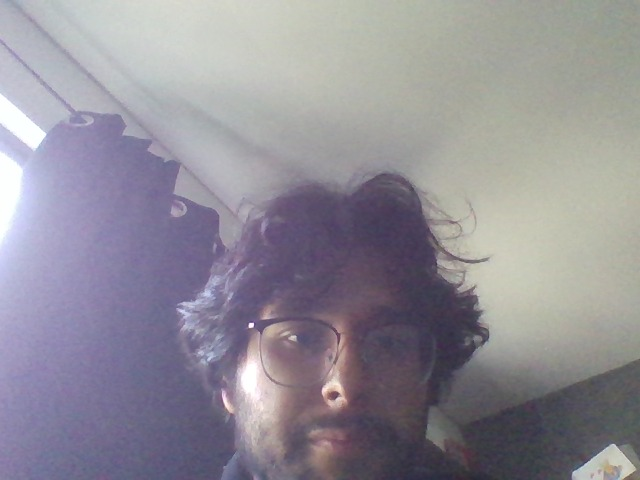
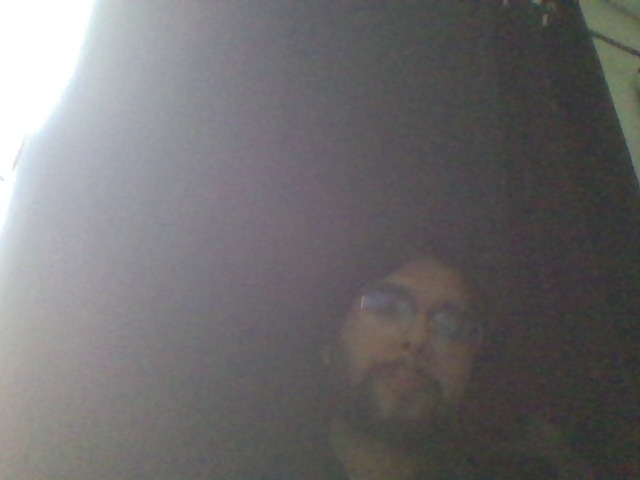
improvements in the UI

diff --git a/app/templates/index.html b/app/templates/index.html
@@ -2,192 +2,238 @@
 <html lang="es">
 <head>
 <meta charset="UTF-8">
-<title>Clasificador Accesible de Billetes</title>
+<title>Detector de Billetes USD</title>
 
 <style>
-    body {
-        font-family: Arial;
-        background: #000;
-        color: #fff;
-        padding: 20px;
-        text-align: center;
-        font-size: 24px;
+    html, body {
+        margin: 0;
+        padding: 0;
+        height: 100%;
+        background: black;
+        overflow: hidden;
+        font-family: Arial, sans-serif;
     }
 
-    video {
-        width: 90%;
-        max-width: 450px;
-        height: auto;
-        border: 4px solid white;
-        border-radius: 10px;
-        margin: 20px auto;
-        display: block;
-    }
-
-    button {
+    /* Cámara en fondo completo */
+    #camera {
+        position: fixed;
+        top: 0;
+        left: 0;
         width: 100%;
-        padding: 28px;
-        font-size: 28px;
-        margin: 18px 0;
-        border-radius: 18px;
-        border: 3px solid white;
-        background: #1a73e8;
+        height: 100%;
+        object-fit: cover;
+        z-index: 1;
+    }
+
+    /* Botón estilo PDF */
+    #mainButton {
+        position: fixed;
+        bottom: 35px;
+        left: 50%;
+        transform: translateX(-50%);
+        width: 70%;
+        max-width: 450px;
+        background: #3866FF;
+        padding: 30px 20px;
+        border-radius: 25px;
+        border: none;
         color: white;
+        text-align: center;
+        z-index: 3;
+        cursor: pointer;
+        box-shadow: 0px 8px 20px rgba(0,0,0,0.4);
+    }
+
+    #mainButtonText {
+        font-size: 32px;
+        font-weight: 900;
+        margin: 0;
+    }
+
+    #subText {
+        font-size: 18px;
+        opacity: 0.9;
+        margin-top: 8px;
+    }
+
+    /* Resultado */
+    #resultBox {
+        position: fixed;
+        bottom: 35px;
+        left: 50%;
+        transform: translateX(-50%);
+        width: 70%;
+        max-width: 450px;
+        background: #3866FF;
+        padding: 40px 20px;
+        border-radius: 25px;
+        display: none;
+        z-index: 4;
+        cursor: pointer;
+        text-align: center;
+        box-shadow: 0px 8px 25px rgba(0,0,0,0.45);
+    }
+
+    #resultText {
+        font-size: 34px;
+        font-weight: 900;
+        margin-bottom: 10px;
+    }
+
+    #totalText {
+        position: fixed;
+        top: 20px;
+        left: 50%;
+        transform: translateX(-50%);
+        font-size: 26px;
         font-weight: bold;
+        color: white;
+        text-shadow: 0 0 5px black;
+        z-index: 5;
     }
 
-    button:focus {
-        outline: 5px solid yellow;
-    }
+    #totalBox {
+    position: fixed;
+    top: 20px;
+    left: 50%;
+    transform: translateX(-50%);
+    background: #3866FF;
+    padding: 20px 30px;
+    border-radius: 25px;
+    color: white;
+    font-size: 28px;
+    font-weight: 900;
+    text-align: center;
+    z-index: 5;
+    box-shadow: 0px 6px 18px rgba(0,0,0,0.45);
+}
 
-    h1, h2, h3 {
-        margin-top: 20px;
-    }
+
 </style>
 </head>
+
 <body>
 
-<h1 aria-live="assertive">Clasificador Accesible de Billetes</h1>
+<video id="camera" autoplay playsinline></video>
 
-<!-- Vista previa cámara -->
-<video id="camera" autoplay playsinline aria-label="Vista previa de cámara"></video>
+<div id="totalBox">$0 USD acumulado</div>
 
-<!-- Botones grandes -->
-<button id="scanBtn" aria-label="Escanear billete">📷 Escanear Billete</button>
-<button id="sumBtn" aria-label="Calcular la suma total">🧮 Terminar de Contar</button>
-<button id="uploadBtn" aria-label="Subir imagen desde el dispositivo">📁 Subir Imagen</button>
+<button id="mainButton">
+    <p id="mainButtonText">Escanear Billete</p>
+    <p id="subText">Click para escanear. Mantén presionado para escuchar el total.</p>
+</button>
 
-<input type="file" id="imageInput" accept="image/*" style="display:none">
-
-<h2 id="result" aria-live="assertive">Esperando instrucciones...</h2>
-
-<h3>Historial:</h3>
-<ul id="history" aria-live="polite"></ul>
-
-<h3>Total: <span id="sumResult" aria-live="assertive">0</span></h3>
-
+<div id="resultBox">
+    <p id="resultText">$0 Dollar USD DETECTADO</p>
+    <p id="subText">Click para continuar</p>
+</div>
 
 <script>
-// --------- Voz ---------
+/* Voz accesible */
 function speak(text) {
     const msg = new SpeechSynthesisUtterance(text);
     msg.lang = "es-ES";
-    speechSynthesis.speak(msg);
-
-    if (navigator.vibrate) navigator.vibrate(100);
+    window.speechSynthesis.speak(msg);
 }
 
-// --------- Guía Inicial ---------
+/* Instrucciones iniciales */
 window.onload = () => {
-    speak("Bienvenido. Esta aplicación es accesible para personas ciegas.");
-    speak("Para comenzar, apunte la cámara hacia un billete y presione el botón Escanear Billete.");
-    speak("También puede presionar la tecla ese para escanear, te para terminar y u para cargar una imagen.");
+    speak("Bienvenido. Toque el botón para escanear un billete. Mantenga presionado el botón para escuchar el total acumulado.");
 };
 
-// --------- Iniciar Cámara ---------
+/* Activar cámara */
 async function startCamera() {
     try {
         const stream = await navigator.mediaDevices.getUserMedia({ video: true });
-        document.getElementById("camera").srcObject = stream;
-        speak("Cámara activada. Puedes escanear un billete cuando quieras.");
-    } catch (err) {
+        camera.srcObject = stream;
+    } catch {
         speak("No se pudo activar la cámara.");
     }
 }
 startCamera();
 
-// --------- Historial ---------
-let historyData = [];
-function renderHistory() {
-    const ul = document.getElementById("history");
-    ul.innerHTML = "";
+/* Variables */
+let isLongPress = false;
+let longPressTimer;
+let total = 0;
 
-    historyData.forEach((item, i) => {
-        let li = document.createElement("li");
-        li.innerText = `Registro ${i + 1}: ${item.class} dólares, confianza del ${Math.round(item.confidence * 100)} por ciento.`;
-        ul.appendChild(li);
-    });
-}
+/* Escanear un billete */
+async function scanBill() {
+    speak("Escaneando, espere un momento.");
 
-// --------- Escanear Billete ---------
-async function scanFromCamera() {
-    speak("Escaneando. Un momento.");
-
-    let video = document.getElementById("camera");
-    let canvas = document.createElement("canvas");
-
+    const video = document.getElementById("camera");
+    const canvas = document.createElement("canvas");
     canvas.width = video.videoWidth;
     canvas.height = video.videoHeight;
     canvas.getContext("2d").drawImage(video, 0, 0);
 
-    let blob = await new Promise(resolve => canvas.toBlob(resolve, "image/jpeg"));
+    const blob = await new Promise(resolve => canvas.toBlob(resolve, "image/jpeg"));
     const formData = new FormData();
     formData.append("image", blob);
 
     const res = await fetch("/predict", { method: "POST", body: formData });
     const data = await res.json();
 
-    document.getElementById("result").innerText =
-        `Detectado: ${data.class} con ${(data.confidence * 100).toFixed(0)}%`;
-
-    speak(`Billete detectado. Es un billete de ${data.class} dólares, con una confianza del ${(data.confidence * 100).toFixed(0)} por ciento.`);
-
-    historyData.push(data); 
-    renderHistory();
+    showResult(data.class, data.confidence);
 }
 
-document.getElementById("scanBtn").onclick = scanFromCamera;
+/* Mostrar resultado */
+function showResult(amount, confidence) {
+    const confPercent = Math.round(confidence * 100);
 
-// --------- Subir Imagen ---------
-document.getElementById("uploadBtn").onclick = () => {
-    speak("Seleccione una imagen de un billete desde su dispositivo.");
-    document.getElementById("imageInput").click();
-};
+    // Sumar
+    const val = parseInt(amount);
+    if (!isNaN(val)) {
+        total += val;
+        document.getElementById("totalBox").textContent = "$" + total + " USD acumulado";
+        speak("Total acumulado: " + total + " dólares.");
+    }
 
-document.getElementById("imageInput").onchange = async (e) => {
-    const file = e.target.files[0];
-    if (!file) return;
+    // Texto visual
+    resultText.innerHTML = 
+        "$" + amount + " Dollar USD DETECTADO<br><span style='font-size:22px;'>Confianza: " + confPercent + "%</span>";
 
-    speak("Procesando imagen.");
+    // Mostrar
+    resultBox.style.display = "block";
+    mainButton.style.display = "none";
 
-    const formData = new FormData();
-    formData.append("image", file);
+    // Voz del resultado
+    speak("Detectado billete de " + amount + " dólares con una confianza del " + confPercent + " por ciento.");
+}
 
-    const res = await fetch("/predict", { method: "POST", body: formData });
-    const data = await res.json();
 
-    speak(`Imagen procesada. Es un billete de ${data.class} dólares, con ${(data.confidence * 100).toFixed(0)} por ciento de confianza.`);
+/* Regresar al modo de escaneo */
+function resetToDetection() {
+    resultBox.style.display = "none";
+    mainButton.style.display = "block";
+    speak("Listo. Puede escanear otro billete.");
+}
 
-    historyData.push(data);
-    renderHistory();
-};
-
-// --------- Sumar Billetes ---------
-document.getElementById("sumBtn").onclick = () => {
-    let total = 0;
-
-    historyData.forEach(item => {
-        let val = parseInt(item.class);
-        if (!isNaN(val)) total += val;
-    });
-
-    document.getElementById("sumResult").innerText = total;
-    speak(`La suma total de todos los billetes escaneados es ${total} dólares.`);
-};
-
-// --------- Atajos de teclado ---------
-document.addEventListener("keydown", (e) => {
-    if (e.key === "s") scanFromCamera();
-    if (e.key === "t") document.getElementById("sumBtn").click();
-    if (e.key === "u") document.getElementById("uploadBtn").click();
+/* Eventos de click y long press */
+mainButton.addEventListener("mousedown", () => {
+    longPressTimer = setTimeout(() => {
+        isLongPress = true;
+        speak("El total acumulado es " + total + " dólares.");
+    }, 600);
 });
 
-// --------- Anunciar cada botón cuando recibe foco ---------
-document.querySelectorAll("button").forEach(btn => {
-    btn.addEventListener("focus", () => {
-        speak(btn.getAttribute("aria-label"));
-    });
+mainButton.addEventListener("mouseup", () => {
+    clearTimeout(longPressTimer);
+
+    if (!isLongPress) {
+        scanBill();
+    }
+
+    isLongPress = false;
 });
+
+mainButton.addEventListener("mouseleave", () => {
+    clearTimeout(longPressTimer);
+});
+
+/* Click para continuar */
+resultBox.onclick = resetToDetection;
+
 </script>
 
 </body>
